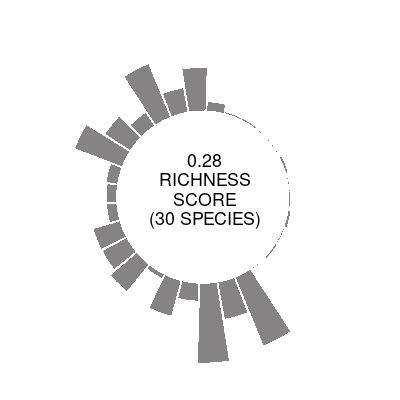
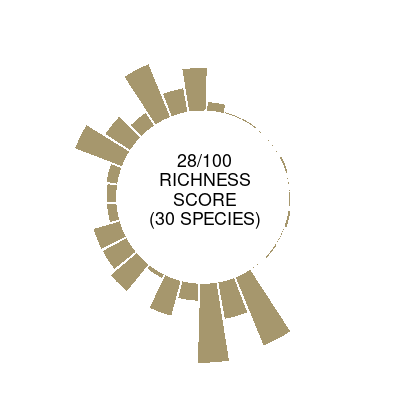
recreated scorecards for paper

diff --git a/figs/web/averley/index.html b/figs/web/averley/index.html
@@ -8,7 +8,6 @@
 	<link rel="stylesheet" href="main.css">
 </head>
 <body>
-   <center><h1>NEIGHBOURHOOD PARK - Overall score: 0.40</h1></center>
    <div class="grid-container">
              <div class="image">
 		  <img class="image__img" src="density.png" alt="Density">
@@ -25,7 +24,7 @@
 		  <img class="image__img" src="size.png" alt="Size">
 		  <div class="image__overlay">
 			<div class="image__title">Size</div>
-			<p class="image__description">This plot represents the proportion of plants that will fall within
+			<p class="image__description">The proportion of plants that will fall within
 				predetermined height categories at maturity. The predetermined four
 				height categories cover off on many species' requirements and should all
 				be represented and balanced across the site. In some cases, identified target
@@ -48,7 +47,7 @@
 		  <img class="image__img" src="endemism.png" alt="Endemism">
 		  <div class="image__overlay">
 			<div class="image__title">Endemism</div>
-			<p class="image__description">This plot reports the proportion of species that are native to the
+			<p class="image__description">The proportion of species that are native to the
 				country, not necessarily site, where the project will be realised. It is
 				normally good practice to maximise the amount of native/local vegetation
 				as other native species will have evolved to best utilise them. In some
@@ -57,13 +56,21 @@
 		  </div>
 	  </div>
              <div class="image">
+		  <img class="image__img" src="total.png" alt="Total">
+		  <div class="image__overlay">
+			<div class="image__title">Total</div>
+			<p class="image__description">This is the overall site score based on an unweighted average of 
+                                  all eight individual scores. Note that this score is out of 100 possible points</p>
+		  </div>
+	  </div>
+             <div class="image">
 		  <img class="image__img" src="richness.png" alt="Richness">
 		  <div class="image__overlay">
 			<div class="image__title">Richness</div>
-			<p class="image__description">This plot illustrates the overall diversity and balance of plant species
+			<p class="image__description">The overall diversity and balance of plant species
 				used on site. The evenness score compares the total numbers of each
 				species (also depicted in the size of the gray bars) - a score close to
-				zero indicates the dominance of a few species; a score of one suggests
+				zero indicates the dominance of a few species; a score of one-hundred suggests
 				a more balanced representation of species. It is also important to
 				examine the number of gray bars as this represents the total number of
 				different species on site and should be as large as possible to
@@ -71,22 +78,10 @@
 		  </div>
 	  </div>
              <div class="image">
-		  <img class="image__img" src="distribution.png" alt="Distribution">
-		  <div class="image__overlay">
-			<div class="image__title">Distribution</div>
-			<p class="image__description">This plot reports an overall score that indicates how well different
-				species are distributed across a site. A low value (approaching zero)
-				indicates that species are clustered or clumped and unevenly distributed
-				around a site. A high value (approaching one) suggests that the species
-				are more randomly and evenly distributed - and closer to what we may
-				encounter in an undistrurbed landscape at a smaller scale.</p>
-		  </div>
-	  </div>
-             <div class="image">
 		  <img class="image__img" src="coverage.png" alt="Coverage">
 		  <div class="image__overlay">
 			<div class="image__title">Coverage</div>
-			<p class="image__description">This plot indicates the relative proportion of vegetation at a one meter
+			<p class="image__description">The relative proportion of vegetation at a one meter
 				cut height across the site, and how it changes through time. It is a
 				coarse proxy for measuring the presence of understory vegetation on site.
 				Each bar represents a year in the specified growth simulation. It is
@@ -112,7 +107,7 @@
 		  <div class="image__overlay">
 			<div class="image__title">Connectivity</div>
 			<p class="image__description">Connectivity is a measure of how much contiguous vegetation exists on
-				the site. A connectivity value close to one indicates a high amount of
+				the site. A connectivity value close to one-hundred indicates a high amount of
 				contiguous or continuous vegetation throughout the site; a value closer
 				to zero suggests very isolated patches of vegetation. Note, this measure
 				is a composite value based on the scores obtained at five heights - by

diff --git a/figs/web/torquay/index.html b/figs/web/torquay/index.html
@@ -8,7 +8,6 @@
 	<link rel="stylesheet" href="main.css">
 </head>
 <body>
-   <center><h1>GREENSPACE - Overall score: 0.34</h1></center>
    <div class="grid-container">
              <div class="image">
 		  <img class="image__img" src="density.png" alt="Density">
@@ -25,7 +24,7 @@
 		  <img class="image__img" src="size.png" alt="Size">
 		  <div class="image__overlay">
 			<div class="image__title">Size</div>
-			<p class="image__description">This plot represents the proportion of plants that will fall within
+			<p class="image__description">The proportion of plants that will fall within
 				predetermined height categories at maturity. The predetermined four
 				height categories cover off on many species' requirements and should all
 				be represented and balanced across the site. In some cases, identified target
@@ -48,7 +47,7 @@
 		  <img class="image__img" src="endemism.png" alt="Endemism">
 		  <div class="image__overlay">
 			<div class="image__title">Endemism</div>
-			<p class="image__description">This plot reports the proportion of species that are native to the
+			<p class="image__description">The proportion of species that are native to the
 				country, not necessarily site, where the project will be realised. It is
 				normally good practice to maximise the amount of native/local vegetation
 				as other native species will have evolved to best utilise them. In some
@@ -57,13 +56,21 @@
 		  </div>
 	  </div>
              <div class="image">
+		  <img class="image__img" src="total.png" alt="Total">
+		  <div class="image__overlay">
+			<div class="image__title">Total</div>
+			<p class="image__description">This is the overall site score based on an unweighted average of 
+                                  all eight individual scores. Note that this score is out of 100 possible points</p>
+		  </div>
+	  </div>
+             <div class="image">
 		  <img class="image__img" src="richness.png" alt="Richness">
 		  <div class="image__overlay">
 			<div class="image__title">Richness</div>
-			<p class="image__description">This plot illustrates the overall diversity and balance of plant species
+			<p class="image__description">The overall diversity and balance of plant species
 				used on site. The evenness score compares the total numbers of each
 				species (also depicted in the size of the gray bars) - a score close to
-				zero indicates the dominance of a few species; a score of one suggests
+				zero indicates the dominance of a few species; a score of one-hundred suggests
 				a more balanced representation of species. It is also important to
 				examine the number of gray bars as this represents the total number of
 				different species on site and should be as large as possible to
@@ -71,22 +78,10 @@
 		  </div>
 	  </div>
              <div class="image">
-		  <img class="image__img" src="distribution.png" alt="Distribution">
-		  <div class="image__overlay">
-			<div class="image__title">Distribution</div>
-			<p class="image__description">This plot reports an overall score that indicates how well different
-				species are distributed across a site. A low value (approaching zero)
-				indicates that species are clustered or clumped and unevenly distributed
-				around a site. A high value (approaching one) suggests that the species
-				are more randomly and evenly distributed - and closer to what we may
-				encounter in an undistrurbed landscape at a smaller scale.</p>
-		  </div>
-	  </div>
-             <div class="image">
 		  <img class="image__img" src="coverage.png" alt="Coverage">
 		  <div class="image__overlay">
 			<div class="image__title">Coverage</div>
-			<p class="image__description">This plot indicates the relative proportion of vegetation at a one meter
+			<p class="image__description">The relative proportion of vegetation at a one meter
 				cut height across the site, and how it changes through time. It is a
 				coarse proxy for measuring the presence of understory vegetation on site.
 				Each bar represents a year in the specified growth simulation. It is
@@ -112,7 +107,7 @@
 		  <div class="image__overlay">
 			<div class="image__title">Connectivity</div>
 			<p class="image__description">Connectivity is a measure of how much contiguous vegetation exists on
-				the site. A connectivity value close to one indicates a high amount of
+				the site. A connectivity value close to one-hundred indicates a high amount of
 				contiguous or continuous vegetation throughout the site; a value closer
 				to zero suggests very isolated patches of vegetation. Note, this measure
 				is a composite value based on the scores obtained at five heights - by

diff --git a/figs/web/booyeembara/index.html b/figs/web/booyeembara/index.html
@@ -8,7 +8,6 @@
 	<link rel="stylesheet" href="main.css">
 </head>
 <body>
-   <center><h1>BUSHLAND - Overall score: 0.62</h1></center>
    <div class="grid-container">
              <div class="image">
 		  <img class="image__img" src="density.png" alt="Density">
@@ -25,7 +24,7 @@
 		  <img class="image__img" src="size.png" alt="Size">
 		  <div class="image__overlay">
 			<div class="image__title">Size</div>
-			<p class="image__description">This plot represents the proportion of plants that will fall within
+			<p class="image__description">The proportion of plants that will fall within
 				predetermined height categories at maturity. The predetermined four
 				height categories cover off on many species' requirements and should all
 				be represented and balanced across the site. In some cases, identified target
@@ -48,7 +47,7 @@
 		  <img class="image__img" src="endemism.png" alt="Endemism">
 		  <div class="image__overlay">
 			<div class="image__title">Endemism</div>
-			<p class="image__description">This plot reports the proportion of species that are native to the
+			<p class="image__description">The proportion of species that are native to the
 				country, not necessarily site, where the project will be realised. It is
 				normally good practice to maximise the amount of native/local vegetation
 				as other native species will have evolved to best utilise them. In some
@@ -57,13 +56,21 @@
 		  </div>
 	  </div>
              <div class="image">
+		  <img class="image__img" src="total.png" alt="Total">
+		  <div class="image__overlay">
+			<div class="image__title">Total</div>
+			<p class="image__description">This is the overall site score based on an unweighted average of 
+                                  all eight individual scores. Note that this score is out of 100 possible points</p>
+		  </div>
+	  </div>
+             <div class="image">
 		  <img class="image__img" src="richness.png" alt="Richness">
 		  <div class="image__overlay">
 			<div class="image__title">Richness</div>
-			<p class="image__description">This plot illustrates the overall diversity and balance of plant species
+			<p class="image__description">The overall diversity and balance of plant species
 				used on site. The evenness score compares the total numbers of each
 				species (also depicted in the size of the gray bars) - a score close to
-				zero indicates the dominance of a few species; a score of one suggests
+				zero indicates the dominance of a few species; a score of one-hundred suggests
 				a more balanced representation of species. It is also important to
 				examine the number of gray bars as this represents the total number of
 				different species on site and should be as large as possible to
@@ -71,22 +78,10 @@
 		  </div>
 	  </div>
              <div class="image">
-		  <img class="image__img" src="distribution.png" alt="Distribution">
-		  <div class="image__overlay">
-			<div class="image__title">Distribution</div>
-			<p class="image__description">This plot reports an overall score that indicates how well different
-				species are distributed across a site. A low value (approaching zero)
-				indicates that species are clustered or clumped and unevenly distributed
-				around a site. A high value (approaching one) suggests that the species
-				are more randomly and evenly distributed - and closer to what we may
-				encounter in an undistrurbed landscape at a smaller scale.</p>
-		  </div>
-	  </div>
-             <div class="image">
 		  <img class="image__img" src="coverage.png" alt="Coverage">
 		  <div class="image__overlay">
 			<div class="image__title">Coverage</div>
-			<p class="image__description">This plot indicates the relative proportion of vegetation at a one meter
+			<p class="image__description">The relative proportion of vegetation at a one meter
 				cut height across the site, and how it changes through time. It is a
 				coarse proxy for measuring the presence of understory vegetation on site.
 				Each bar represents a year in the specified growth simulation. It is
@@ -112,7 +107,7 @@
 		  <div class="image__overlay">
 			<div class="image__title">Connectivity</div>
 			<p class="image__description">Connectivity is a measure of how much contiguous vegetation exists on
-				the site. A connectivity value close to one indicates a high amount of
+				the site. A connectivity value close to one-hundred indicates a high amount of
 				contiguous or continuous vegetation throughout the site; a value closer
 				to zero suggests very isolated patches of vegetation. Note, this measure
 				is a composite value based on the scores obtained at five heights - by
